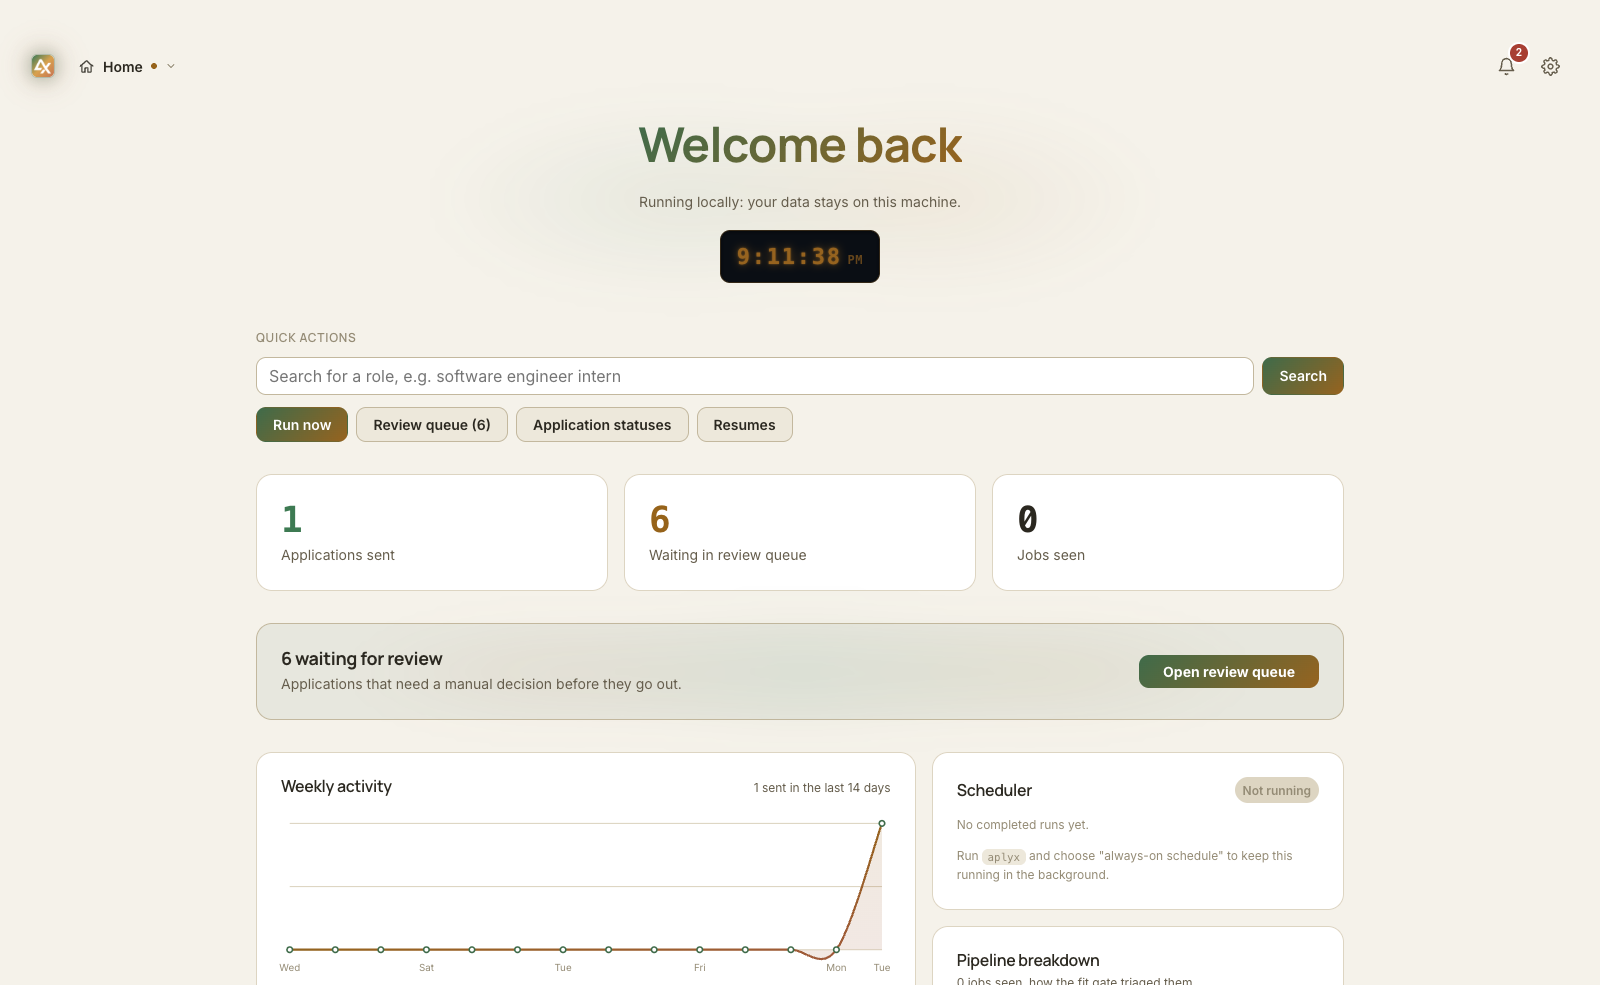
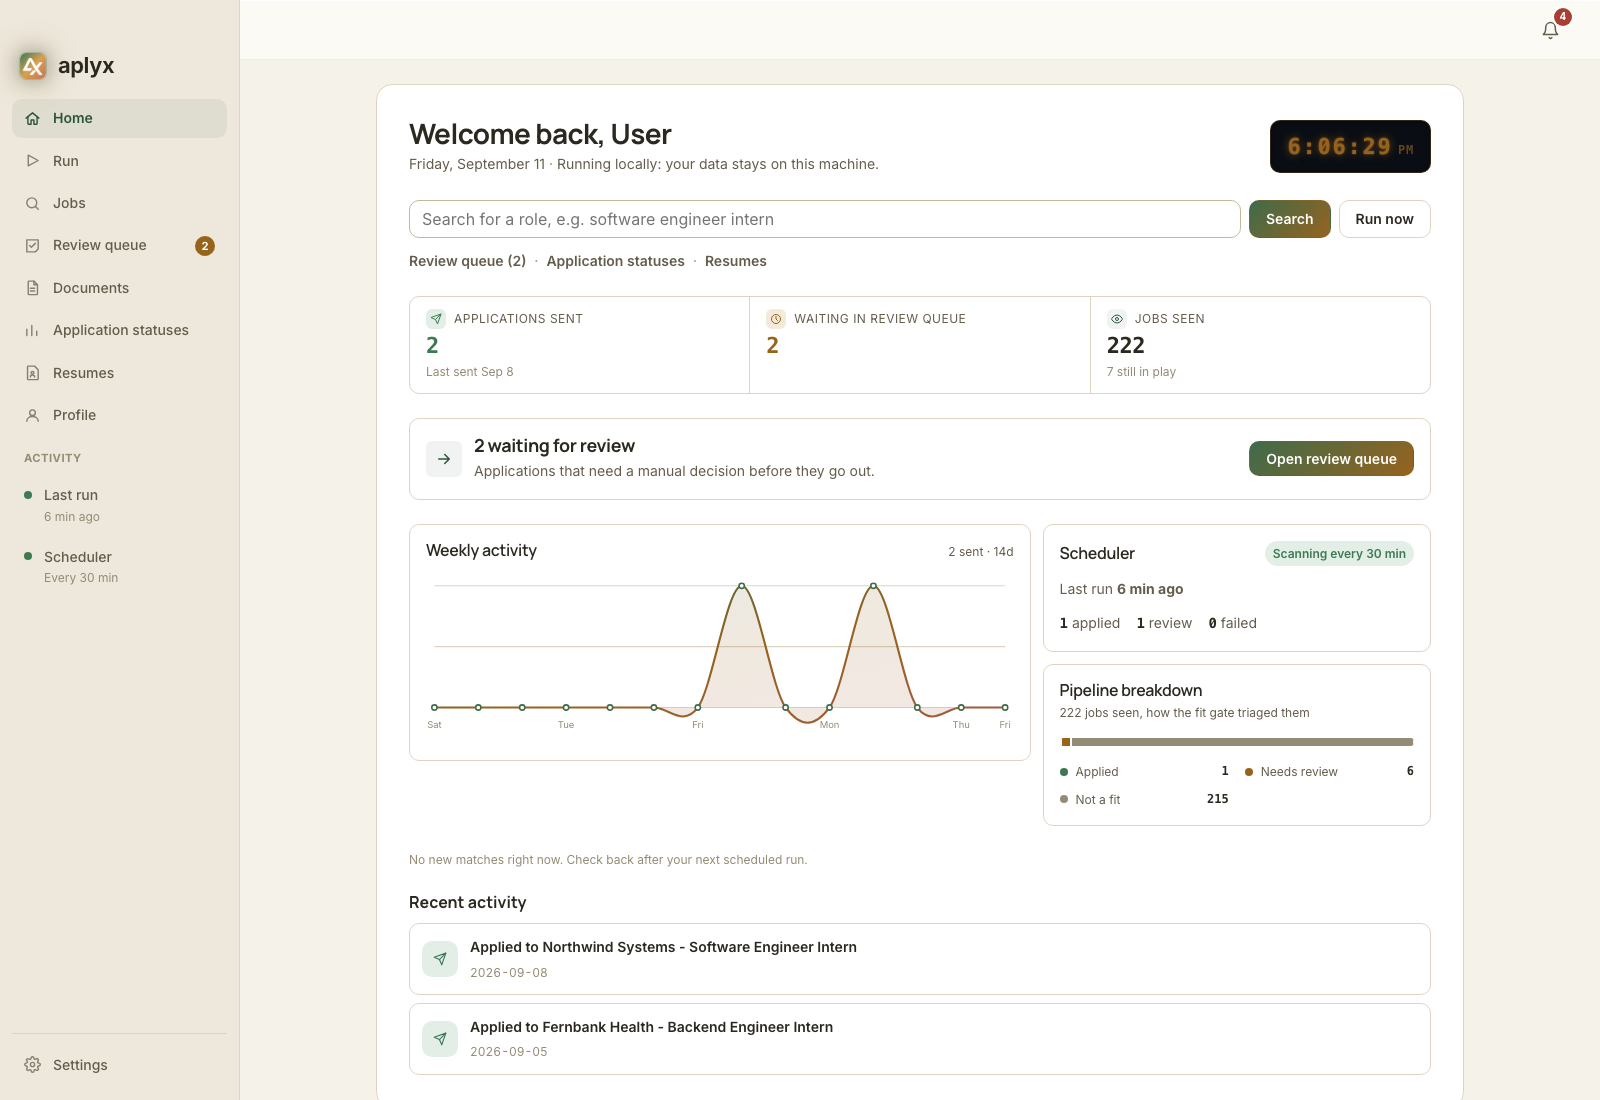
Detect provider usage-limit failures; relabel scheduler UI; refresh home screenshot
- run_job_agent.py: scan a failed run's session log for confirmed
  provider billing/quota phrases (opencode "insufficient balance",
  Claude Code "usage limit reached"/"credit balance too low" grepped
  from its own installed binary, Codex/Copilot phrasing from public
  issue reports) and pass --usage-limited to write_heartbeat.py.
- write_heartbeat.py: usage_limited flag freezes (rather than
  increments or resets) consecutive_nonzero_exits, so a provider
  billing wall never trips the "N runs in a row failed" alert.
- SchedulerStatusCard: shows "usage limit reached" instead of the raw
  provider error or a scary failure-streak warning when the flag is
  set; no fabricated reset countdown, since that's not a real number
  any of these providers expose.
- Regenerated desktop-home screenshots: the previous ones showed the
  operator's real first name ("Welcome back, Kesh") on the public
  marketing site; replaced with a fictional "User" persona, same
  Vite+Playwright+stub technique docs/website.md already documents,
  now also showing the new scheduler card.

Claude-Session: https://claude.ai/code/session_01GRhDbqyf8cLeZMuxZN74pD

diff --git a/src/tauri/src/components/SchedulerStatusCard.tsx b/src/tauri/src/components/SchedulerStatusCard.tsx
@@ -30,7 +30,10 @@ export function SchedulerStatusCard({ status }: { status: SchedulerStatus }) {
         <>
           <p className="scheduler-status-last-run">
             Last run <strong>{timeAgo(hb.last_run_completed_at)}</strong>
-            {hb.last_run_exit_code !== 0 && <span className="scheduler-status-warn">, exited with an error</span>}
+            {hb.last_run_exit_code !== 0 && !hb.usage_limited && (
+              <span className="scheduler-status-warn">, exited with an error</span>
+            )}
+            {hb.usage_limited && <span>, usage limit reached</span>}
           </p>
           <div className="scheduler-status-counts">
             <span>
@@ -43,10 +46,17 @@ export function SchedulerStatusCard({ status }: { status: SchedulerStatus }) {
               <strong>{hb.last_run_counts.failed}</strong> failed
             </span>
           </div>
-          {hb.consecutive_nonzero_exits >= 3 && (
-            <p className="scheduler-status-warn scheduler-status-alert">
-              {hb.consecutive_nonzero_exits} runs in a row have failed. Check logs/run_job_agent.log.
+          {hb.usage_limited ? (
+            <p className="field-help">
+              Your coding agent's usage limit is reached. aplyx will keep retrying every {status.interval_min} min and
+              pick back up automatically once it resets.
             </p>
+          ) : (
+            hb.consecutive_nonzero_exits >= 3 && (
+              <p className="scheduler-status-warn scheduler-status-alert">
+                {hb.consecutive_nonzero_exits} runs in a row have failed. Check logs/run_job_agent.log.
+              </p>
+            )
           )}
         </>
       ) : (

diff --git a/src/core/src/jobs.ts b/src/core/src/jobs.ts
@@ -216,6 +216,14 @@ export interface SchedulerHeartbeat {
   last_run_counts: { applied: number; needs_review: number; failed: number; skipped_unfit: number };
   run_counter: number;
   consecutive_nonzero_exits: number;
+  /** True when last_run_exit_code's failure was a provider billing/quota
+   *  wall (write_heartbeat.py --usage-limited), not a real bug. Optional:
+   *  absent on heartbeats written before this field existed and on any
+   *  successful run. No reset timestamp is included — that's not a
+   *  queryable number across harnesses (see docs/hosted-paid-tier-plan.md),
+   *  so the UI shows a plain "reached, will keep retrying" state instead
+   *  of a countdown it can't honestly compute. */
+  usage_limited?: boolean;
 }
 
 export interface SchedulerStatus {

diff --git a/src/scripts/runtime/run_job_agent.py b/src/scripts/runtime/run_job_agent.py
@@ -509,6 +509,57 @@ def _count_skipped_unfit() -> int:
     return n
 
 
+# Substrings from confirmed provider-billing failures, lowercased for a
+# case-insensitive match against the harness's own transcript. This must
+# stay conservative: a false positive here relabels a real bug as a
+# shrug-and-retry "usage limit", which is worse than the noisy alerter
+# popup it replaces. Each entry's provenance (verified 2026-09-11):
+#   - opencode: seen verbatim in this repo's own logs/session_*.log
+#     (2026-09-09 onward, this machine's real failures).
+#   - claude: grepped out of the installed Claude Code binary itself
+#     (~/.local/share/claude/versions/2.1.267) — its own error-classifier
+#     literally maps a billing_error to "usage limit reached — check
+#     plan", and separately recognizes "credit balance too low". Deliberately
+#     NOT included: "rate limited" — Claude Code classifies that as its own
+#     rate_limit case, a transient/retryable condition, not a billing wall.
+#   - codex: not installed on this machine to grep; phrase is instead taken
+#     from OpenAI's own error copy as quoted across multiple
+#     github.com/openai/codex issues and the OpenAI developer community
+#     ("You've hit your usage limit ... try again at <time>").
+#   - copilot: not installed on this machine either; taken from
+#     github.com/github/copilot-cli issue reports, which quote the CLI's own
+#     `{"code":"quota_exceeded"}` response and its "Quota exceeded" stdout
+#     line. Codex/copilot are second-hand evidence (public bug reports, not
+#     a grep of the binary or this repo's own logs) — treat a codex/copilot
+#     "usage_limited" heartbeat as less certain than an opencode/claude one
+#     until a real local failure confirms it.
+# Deliberately excluded everywhere: generic "rate limit"/"429"/"overloaded"
+# text — those are transient capacity conditions, not a billing wall, and
+# lumping them in here would hide a genuinely recurring problem from the
+# consecutive-failure alert.
+_USAGE_LIMIT_MARKERS = (
+    "insufficient balance",       # opencode
+    "usage limit reached",        # claude
+    "credit balance too low",     # claude
+    "hit your usage limit",       # codex
+    "quota_exceeded",             # copilot (error code)
+    "quota exceeded",             # copilot (stdout line)
+)
+
+
+def _session_hit_usage_limit(session_log: str) -> bool:
+    """True if this run's transcript shows a provider billing/quota wall
+    rather than a real failure. Scanned once, after the harness exits (see
+    the write_heartbeat call site) — never during the run, so this can't
+    affect run behavior, only how the resulting heartbeat is labeled."""
+    try:
+        with open(session_log, "r", encoding="utf-8", errors="replace") as fh:
+            text = fh.read().lower()
+    except OSError:
+        return False
+    return any(marker in text for marker in _USAGE_LIMIT_MARKERS)
+
+
 def _run(logs_dir: str, run_log: str, run_start: datetime) -> int:
     # --- Config validation ---------------------------------------------------
     if py_run([os.path.join("src", "scripts", "validate", "validate_local_config.py"), PROJECT_ROOT]).returncode != 0:
@@ -760,9 +811,12 @@ def _run(logs_dir: str, run_log: str, run_start: datetime) -> int:
     d_failed = after["failed"] - before["failed"]
     d_skipped = after_skipped - before_skipped
 
-    py_run([os.path.join("src", "scripts", "runtime", "write_heartbeat.py"), "--exit-code", str(run_rc),
-            "--applied", str(d_applied), "--needs-review", str(d_review),
-            "--failed", str(d_failed), "--skipped-unfit", str(d_skipped)])
+    heartbeat_args = [os.path.join("src", "scripts", "runtime", "write_heartbeat.py"), "--exit-code", str(run_rc),
+                      "--applied", str(d_applied), "--needs-review", str(d_review),
+                      "--failed", str(d_failed), "--skipped-unfit", str(d_skipped)]
+    if run_rc != 0 and _session_hit_usage_limit(session_log):
+        heartbeat_args.append("--usage-limited")
+    py_run(heartbeat_args)
 
     # --- Registry storage cap ------------------------------------------------
     py_run([os.path.join("src", "scripts", "state", "job_state.py"), "prune-jd-text"])

diff --git a/src/scripts/runtime/write_heartbeat.py b/src/scripts/runtime/write_heartbeat.py
@@ -8,6 +8,14 @@ run counter, and a consecutive-nonzero-exit counter (the restart-loop
 signal). Informational only; never blocks or fails the run: any error
 prints a warning and exits 0.
 
+--usage-limited flags a failed run whose harness transcript matched a
+known provider billing/quota wall (see run_job_agent.py's
+_session_hit_usage_limit) rather than a real bug, so the dashboard can
+say "usage limit reached" instead of surfacing the raw provider error or
+counting it toward the scary consecutive-failure alert. There's no
+per-provider reset timestamp to show (that's not a queryable number
+across harnesses), so this is a plain flag, not a countdown.
+
 Usage:
   python3 src/scripts/runtime/write_heartbeat.py --exit-code 0 \
       --applied 2 --needs-review 1 --failed 0 --skipped-unfit 5
@@ -33,6 +41,8 @@ def main(argv=None) -> int:
     parser.add_argument("--needs-review", type=int, default=0)
     parser.add_argument("--failed", type=int, default=0)
     parser.add_argument("--skipped-unfit", type=int, default=0)
+    parser.add_argument("--usage-limited", action="store_true",
+                         help="this run's failure was a provider billing/quota wall, not a real error")
     parser.add_argument("--path", default=HEARTBEAT)
     args = parser.parse_args(argv)
 
@@ -45,7 +55,16 @@ def main(argv=None) -> int:
             except (OSError, json.JSONDecodeError):
                 previous = {}
         consecutive = int(previous.get("consecutive_nonzero_exits", 0))
-        consecutive = consecutive + 1 if args.exit_code != 0 else 0
+        if args.exit_code == 0:
+            consecutive = 0
+        elif not args.usage_limited:
+            # A real failure. A usage-limited one leaves this counter
+            # frozen instead: it's not evidence of a bug, so it shouldn't
+            # feed the "N runs in a row have failed, check logs" alert,
+            # but it shouldn't quietly reset it to 0 either (that would
+            # hide a genuine failure streak sitting right before a
+            # provider outage started).
+            consecutive = consecutive + 1
         heartbeat = {
             "last_run_completed_at": datetime.datetime.now(datetime.timezone.utc)
             .isoformat(timespec="seconds"),
@@ -58,6 +77,7 @@ def main(argv=None) -> int:
             },
             "run_counter": int(previous.get("run_counter", 0)) + 1,
             "consecutive_nonzero_exits": consecutive,
+            "usage_limited": bool(args.usage_limited),
         }
         directory = os.path.dirname(os.path.abspath(args.path)) or "."
         os.makedirs(directory, exist_ok=True)
